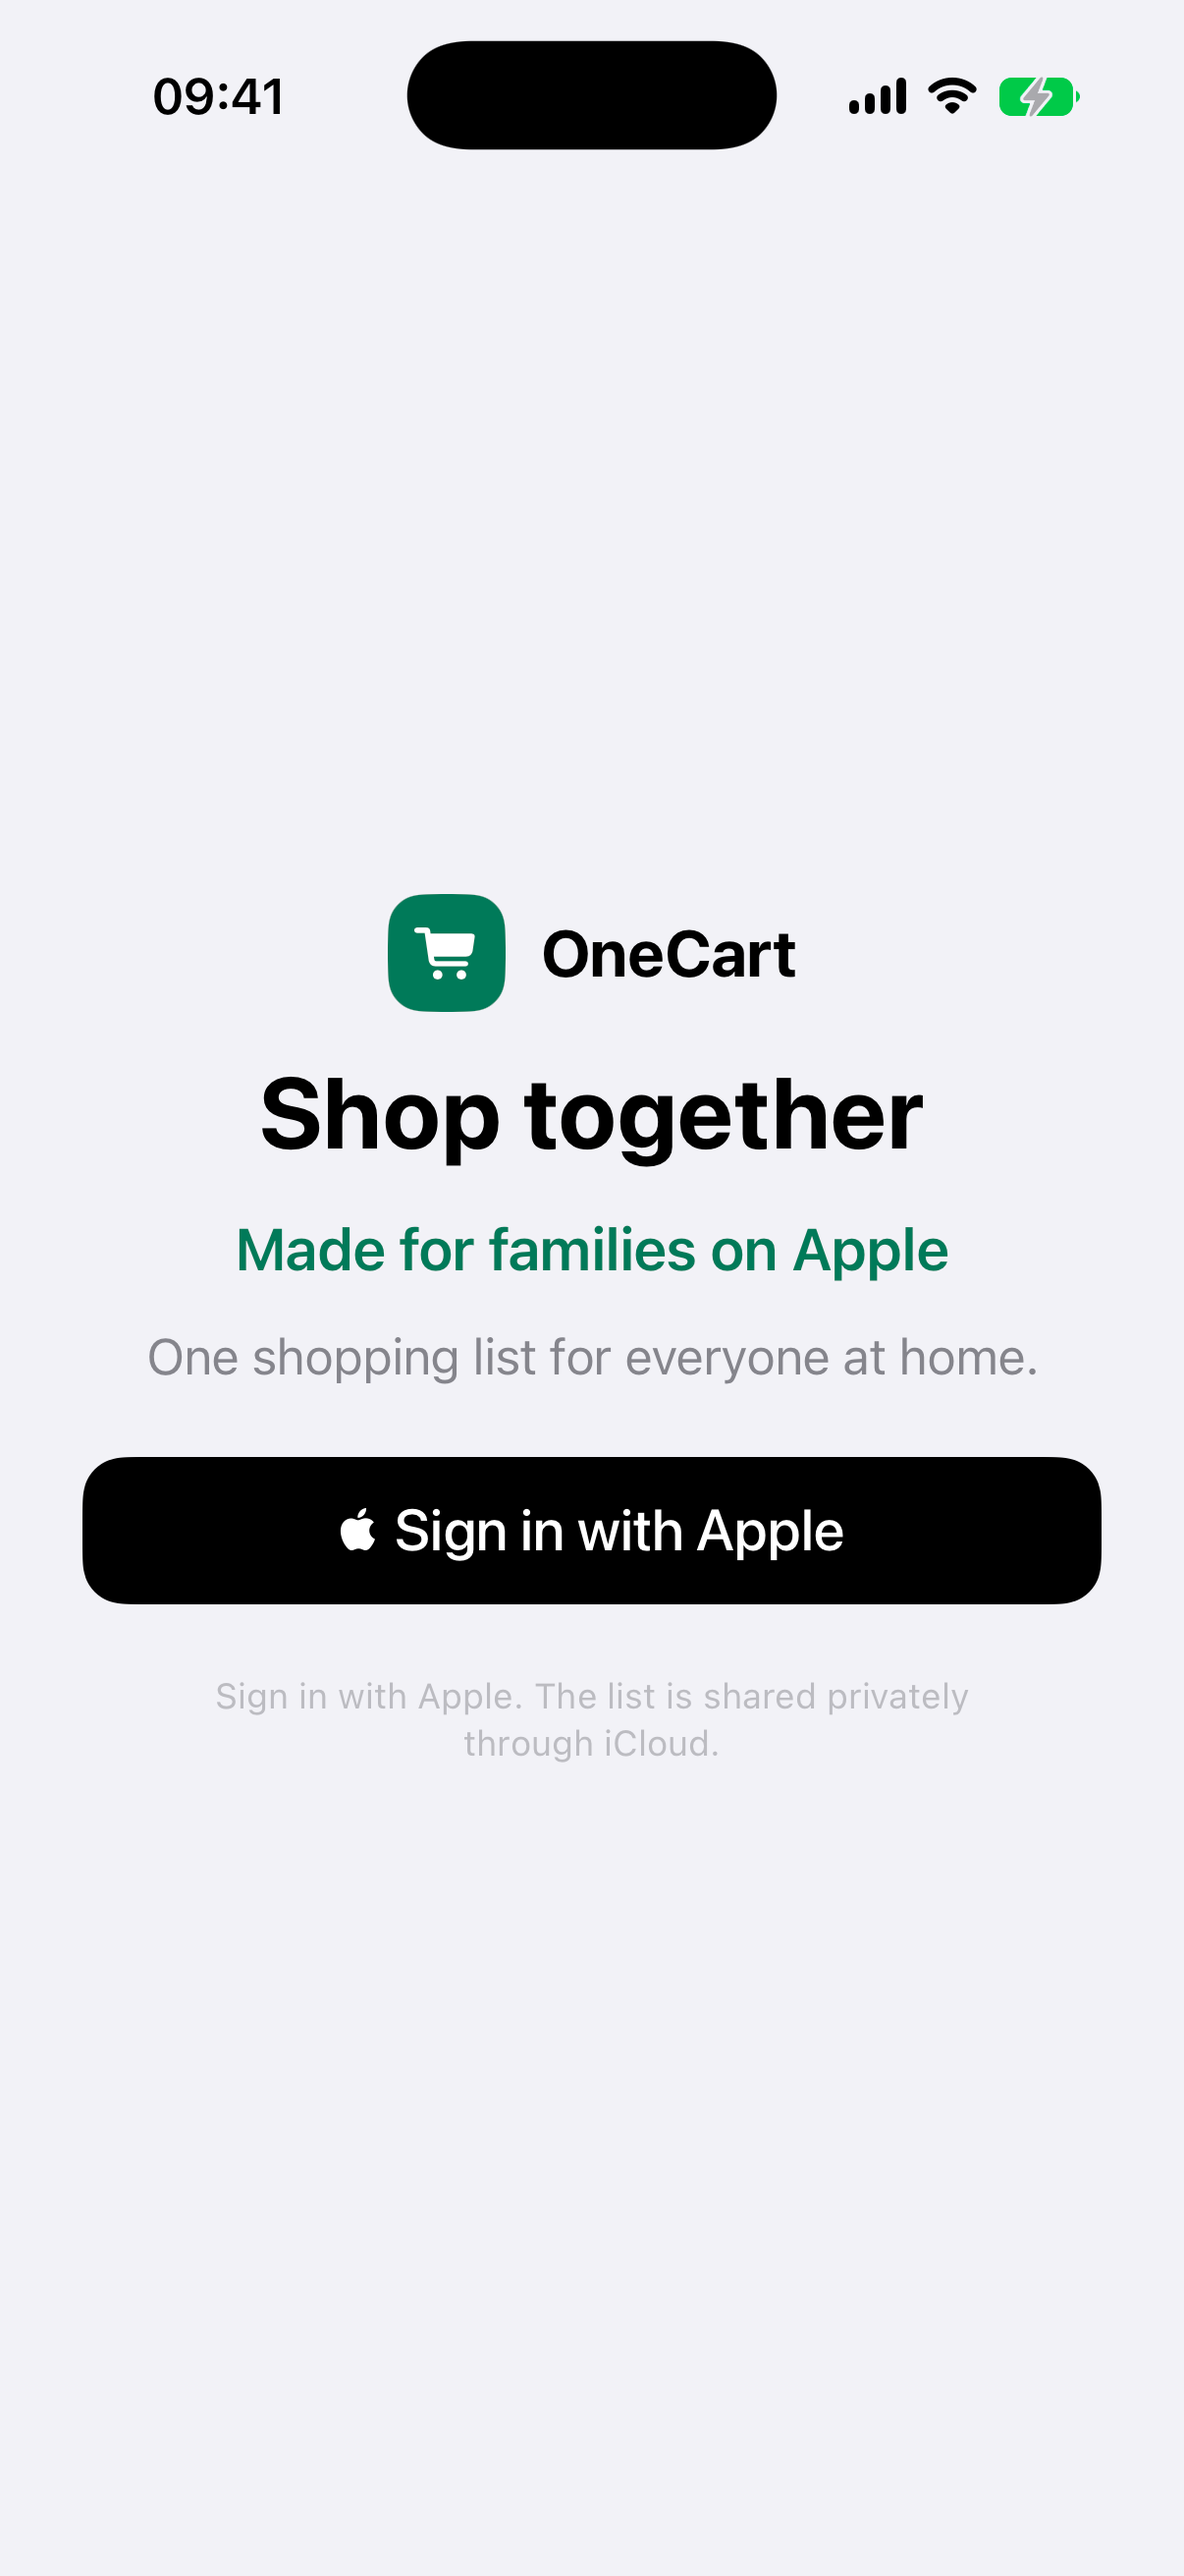
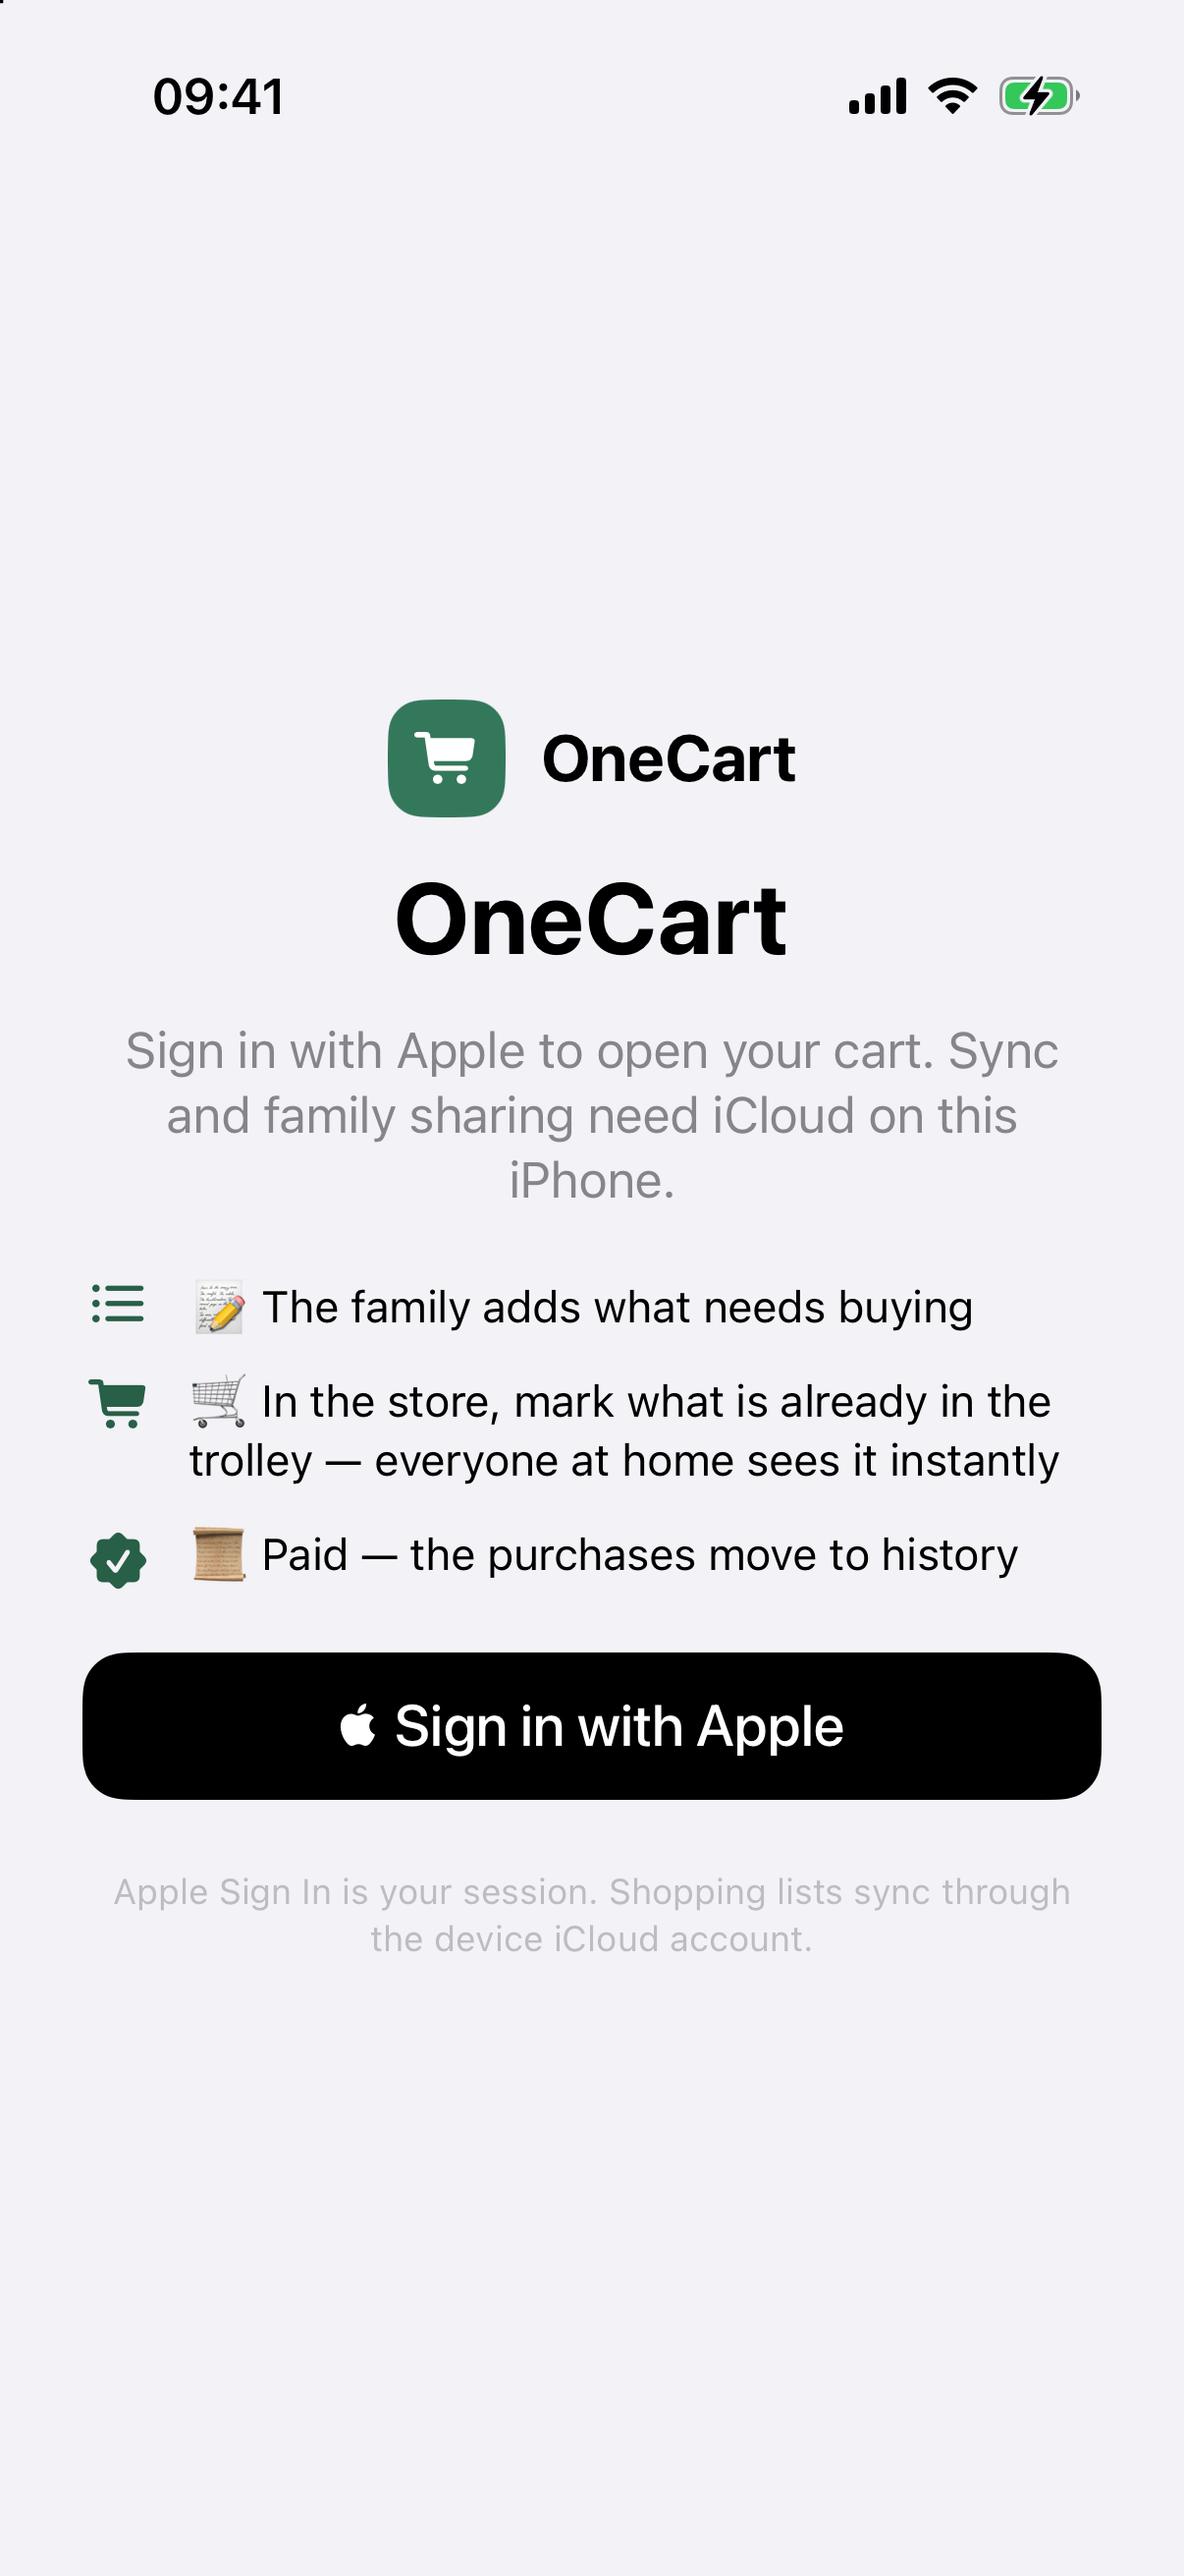
chore(assets): recapture welcome screenshot with trolley steps

diff --git a/assets/store/README.md b/assets/store/README.md
@@ -2,11 +2,19 @@
 
 Captured from iPhone 17 simulator (1206×2622).
 
-| File | Use |
-|------|-----|
-| `screenshots/01-welcome.png` | Welcome + Sign in with Apple |
-| `preview/tf-welcome-siwa.mp4` | Short preview: Welcome → SIWA → system prompt |
+| File | Use | State |
+|------|-----|-------|
+| `screenshots/01-welcome.png` | Welcome + three-step trolley metaphor + Sign in with Apple | current |
+| `preview/tf-welcome-siwa.mp4` | Short preview: Welcome → SIWA → system prompt | stale — recorded before the three-step Welcome |
 
 Apple 6.7" slot expects **1290×2796**. Current sim size is **1206×2622** — upsample or re-capture before App Store submission.
 
 Past Welcome needs Apple ID on simulator or device for more screens.
+
+## Re-capture
+
+```bash
+xcrun simctl status_bar <udid> override --time "09:41" --wifiMode active --wifiBars 3 \
+  --cellularMode active --cellularBars 4 --batteryState charging --batteryLevel 100
+xcrun simctl io <udid> screenshot --type=png assets/store/screenshots/01-welcome.png
+```
